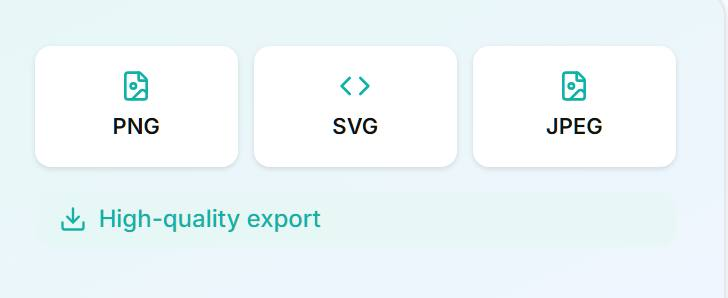
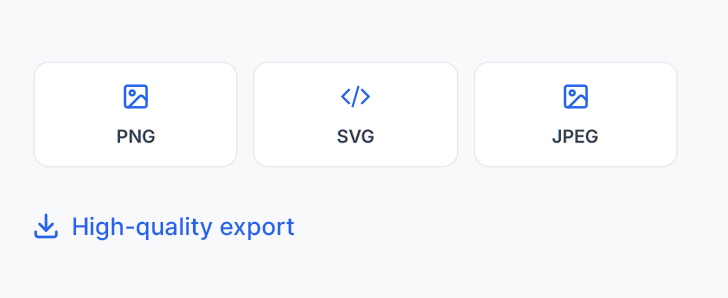
Shift steps and Why to blue, align plans, add the closing CTA
The PM's third home-page pass.

- Steps: number badges, the customize and download tiles and the
  high-quality export line all move from teal to blue, on the mockup's
  lighter panels. Step one's format tiles keep each type's own accent so
  they match the picker below.
- Why: badge and benefit icons go blue, and the dashboard still is the
  designer's new blue render. "Explore features" was already dropped in
  the last pass.
- Pricing: the trial card sat lower than the other two because only they
  reserved room for a Save pill. The cards now stretch to one height and
  the trial renders an empty pill slot, so the billing lines, feature
  lists and buttons share a baseline.
- Add the "Ready to create your QR code?" panel between the FAQ and the
  footer.

The designer's latest is synced in; their steps visuals are now flat
JPGs, but ours stay as live markup so they keep scaling and stay
readable to screen readers.

diff --git a/html_files/assets/css/default.css b/html_files/assets/css/default.css
@@ -210,7 +210,7 @@ svg path,svg shape,svg lineargradient { shape-rendering: geometricPrecision; }
 #mainSteps .btm .itm + .itm { margin-left: 2.4em; }
 #mainSteps .itm .tmb img { width: 100%; border-radius: 10px; }
 #mainSteps .itm .cap { display: flex; align-items: center; padding: 1.8em 1.2em 0 1.2em; }
-#mainSteps .itm .num { width: 2em; height: 2em; display: flex; align-items: center; justify-content: center; font-size: 1.3em; font-weight: 700; color: #ffffff; background: #11b1a7; }
+#mainSteps .itm .num { width: 2em; height: 2em; display: flex; align-items: center; justify-content: center; font-size: 1.3em; font-weight: 700; color: #ffffff; background: #2563eb; }
 #mainSteps .itm .ln1 { font-size: 1.9em; font-weight: 700; margin-left: 0.55em; }
 #mainSteps .itm .ln3 { font-size: 1.45em; color: #6b7280; line-height: 1.55em; padding: 0.85em 0.85em 0.55em 0.85em; }
 @media (max-width: 992px){
@@ -296,19 +296,19 @@ svg path,svg shape,svg lineargradient { shape-rendering: geometricPrecision; }
 #mainWhy { background: #ffffff;  }
 #mainWhy .row { display: flex; align-items: center; }
 #mainWhy .lft { flex: 0 0 415px; }
-#mainWhy .bdg { display: inline-flex; align-items: center; font-size: 12.5px; font-weight: 700; letter-spacing: 0.08em; text-transform: uppercase; color: #11b1a7; background: #e2f4f1; padding: 0.75em 1.4em; }
+#mainWhy .bdg { display: inline-flex; align-items: center; font-size: 12.5px; font-weight: 700; letter-spacing: 0.08em; text-transform: uppercase; color: #2563eb; background: #e9f0fb; padding: 0.75em 1.4em; }
 #mainWhy .bdg svg { width: 1.1em; height: 1.1em; margin-right: 0.55em; flex: 0 0 auto; }
 #mainWhy .ln1 { font-size: 40px; font-weight: 800; line-height: 1.15em; letter-spacing: -0.02em; max-width: 10.5em; margin-top: 0.6em; }
 #mainWhy .ln2 { font-size: 16.5px; color: #4b5563; line-height: 1.55em; max-width: 25em; padding: 0; margin-top: 1em; }
 #mainWhy .lst { margin-top: 2.4em; }
 #mainWhy .lst .itm { display: flex; align-items: center; background: #ffffff; border: 1px solid #e8eaef; border-radius: 12px; padding: 1em 1.2em; font-size: 10px;  }
 #mainWhy .lst .itm + .itm { margin-top: 1.3em; }
-#mainWhy .lst .ico { width: 6em; height: 6em; display: flex; align-items: center; justify-content: center; background: #e6f7f5; border-radius: 1.2em; flex: 0 0 auto; }
+#mainWhy .lst .ico { width: 6em; height: 6em; display: flex; align-items: center; justify-content: center; background: #e9f0fb; border-radius: 1.2em; flex: 0 0 auto; color: #2563eb;}
 #mainWhy .lst .ico svg { width: 2.4em; height:  2.4em; }
 #mainWhy .lst .txt { margin-left: 1.15em; }
 #mainWhy .lst .ln3 { font-size: 1.7em; font-weight: 700; }
 #mainWhy .lst .ln4 { font-size: 1.45em; color: #6b7280; line-height: 1.5em; max-width: 18.5em; padding: 0; margin-top: 0.35em; }
-#mainWhy .more { display: inline-flex; align-items: center; font-size: 16px; font-weight: 600; color: #11b1a7; border-bottom: 2px solid #11b1a7; padding-bottom: 0.4em; margin-top: 2.2em; }
+#mainWhy .more { display: inline-flex; align-items: center; font-size: 16px; font-weight: 600; color: #2563eb; border-bottom: 2px solid #2563eb; padding-bottom: 0.4em; margin-top: 2.2em; }
 #mainWhy .more:hover { color: #0d8a82; border-color: #0d8a82; }
 #mainWhy .more svg { width: 1.2em; height: 1.2em; margin-left: 0.55em; flex: 0 0 auto; }
 #mainWhy .rgt { flex: 1 1 auto; margin-left: 5.3em; }
@@ -415,17 +415,17 @@ svg path,svg shape,svg lineargradient { shape-rendering: geometricPrecision; }
 #mainFaq .btm .itm + .itm { margin-top: 1.8em; }
 #mainFaq .itm summary { display: flex; align-items: center; padding: 1.55em 2em; cursor: pointer; list-style: none; }
 #mainFaq .itm summary::-webkit-details-marker { display: none; }
-#mainFaq .itm summary .tgl { width: 1.76em; height: 1.76em; display: flex; align-items: center; justify-content: center; font-size: 1.7em; font-weight: 600; color: #2563eb; background: #e4ebfd; flex: 0 0 auto; margin-right: 1.4em; }
+#mainFaq .itm summary .tgl { width: 1.76em; height: 1.76em; display: flex; align-items: center; justify-content: center; font-size: 1.7em; font-weight: 600; color: #2563eb; background: #e9f0fb; flex: 0 0 auto; margin-right: 1.4em; }
 #mainFaq .itm summary .tgl:before { content: '+'; }
 #mainFaq .itm details[open] summary .tgl { color: #ffffff; background: #2563eb; }
 #mainFaq .itm details[open] summary .tgl:before { content: '−'; }
 #mainFaq .itm summary .ln1 { font-size: 1.8em; font-weight: 600; padding: 0; }
 #mainFaq .itm summary .ico { width: 1.8em; margin-left: auto; padding-left: 0; flex: 0 0 auto; }
 #mainFaq .itm details[open] .ico { transform: rotate(180deg); }
-#mainFaq .itm .txt { background: #f3f5f7; border-top: 1px solid #eef2f2; }
+#mainFaq .itm .txt { background: #f7faff; border-top: 1px solid #eef2f2; }
 #mainFaq .itm .txt .ln2 { font-size: 1.5em; color: #4b5563; line-height: 1.65em; padding: 1.5em 2em 1.6em 2em; max-width: 44em; }
 #mainFaq .btm .rgt { flex: 0 0 340px; margin-left: 5em; }
-#mainFaq .rgt .ico { width: 52px; height: 52px; display: flex; align-items: center; justify-content: center; background: #e4ebfd; }
+#mainFaq .rgt .ico { width: 52px; height: 52px; display: flex; align-items: center; justify-content: center; background: #e9f0fb; }
 #mainFaq .rgt .ico svg { width: 24px; height: 24px; }
 #mainFaq .rgt .ln3 { font-size: 29px; font-weight: 800; line-height: 1.2em; letter-spacing: -0.02em; margin-top: 1em; }
 #mainFaq .rgt .ln4 { font-size: 17px; color: #6b7280; line-height: 1.55em; max-width: 17em; padding: 0; margin-top: 0.9em; }
@@ -552,11 +552,25 @@ svg path,svg shape,svg lineargradient { shape-rendering: geometricPrecision; }
 #mainFooter .col a { font-size: 12.5px; }
 }
 
-
-
+/* Main Footer
+--------------------------------------------------------------*/
+#mainSlimFooter { background: #ffffff; padding: 4rem 0; font-size: 14.5px; text-align: center;  }
+#mainSlimFooter  ul { display: flex; justify-content: center; margin: 0 auto;  }
+#mainSlimFooter  ul li { padding: 0 0.6em; }  
+#mainSlimFooter  ul li a { color: #4b5563; display: inline-flex; align-items: center; white-space: nowrap; }
+#mainSlimFooter  ul li a:hover { color: #0e1311; }
+#mainSlimFooter  ul li a.footLive { font-weight: 600; }
+#mainSlimFooter  ul li a.footLive svg { max-width: 1.1428em; min-width: 1.1428em; max-height: 1.1428em; margin-left: 0.425em; }
+@media (max-width: 640px){
+#mainSlimFooter  ul { flex-wrap: wrap; }
+#mainSlimFooter  ul li:first-child { min-width: 100%; order: 10; margin-top: 0.6em;  }	
+}
+@media (max-width: 480px){
+#mainSlimFooter { font-size: 3vw; }
+}
 /* mainCreate
 --------------------------------------------------------------*/
-#mainCreate { background: #f5f7f9; padding: 4rem 0;  }
+#mainCreate { background: #f5f7f9; padding: 2rem 0;  }
 #mainCreate .crd { background: #ffffff; border: 1px solid #e8eaef; border-radius: 18px; box-shadow: 0 1px 2px 0 rgba(14,19,17,0.04); overflow: hidden; }
 #mainCreate .top { display: flex; align-items: center; padding: 1.7em 2.4em 1.8em 2.4em; border-bottom: 1px solid #eceef2; }
 #mainCreate .stp { font-size: 10px; display: flex; align-items: center; }

diff --git a/src/components/sections/Steps.tsx b/src/components/sections/Steps.tsx
@@ -1,10 +1,10 @@
 import {
   Globe,
+  Contact,
   FileText,
-  Video,
-  MessageCircle,
   Image as ImageIcon,
-  Wifi,
+  Video,
+  Smartphone,
   Palette,
   Sparkles,
   FileImage,
@@ -12,13 +12,14 @@ import {
   Download,
 } from "lucide-react";
 
+/** Step 1 tiles keep each format's own accent, matching the type picker. */
 const qrTypes = [
-  { icon: Globe, label: "Website" },
-  { icon: FileText, label: "PDF" },
-  { icon: Video, label: "Video" },
-  { icon: MessageCircle, label: "WhatsApp" },
-  { icon: ImageIcon, label: "Image" },
-  { icon: Wifi, label: "WiFi" },
+  { icon: Globe, label: "Website", color: "#3670f4" },
+  { icon: Contact, label: "vCard", color: "#5d6ded" },
+  { icon: FileText, label: "PDF", color: "#d52025" },
+  { icon: ImageIcon, label: "Image", color: "#3d994c" },
+  { icon: Video, label: "Video", color: "#db4243" },
+  { icon: Smartphone, label: "App Link", color: "#2aa7c5" },
 ];
 
 const swatches = [
@@ -37,9 +38,9 @@ const formats = [
 ];
 
 const cardClass =
-  "flex h-full flex-col overflow-hidden rounded-2xl border border-line bg-white shadow-soft";
+  "flex h-full flex-col overflow-hidden rounded-2xl border border-line bg-white p-5 shadow-soft";
 const visualClass =
-  "flex flex-1 flex-col justify-center bg-gradient-to-br from-brand-soft to-primary-soft/40 p-6";
+  "flex flex-1 flex-col justify-center rounded-xl bg-bg-alt/70 p-5";
 
 function StepCaption({
   step,
@@ -51,21 +52,21 @@ function StepCaption({
   body: string;
 }) {
   return (
-    <div className="p-6">
+    <div className="pt-5">
       <div className="flex items-center gap-2.5">
-        <span className="flex h-7 w-7 items-center justify-center rounded-full bg-brand text-sm font-bold text-white">
+        <span className="flex h-7 w-7 items-center justify-center rounded-full bg-primary text-sm font-bold text-white">
           {step}
         </span>
-        <h3 className="text-lg font-semibold">{title}</h3>
+        <h3 className="text-lg font-bold text-ink">{title}</h3>
       </div>
-      <p className="mt-2 text-sm text-muted">{body}</p>
+      <p className="mt-2.5 text-sm leading-relaxed text-muted">{body}</p>
     </div>
   );
 }
 
 export function Steps() {
   return (
-    <section className="bg-bg">
+    <section className="bg-white">
       <div className="container-page py-16 md:py-20">
         <h2 className="text-center text-3xl font-bold sm:text-4xl">
           Create a QR code in 3 simple steps
@@ -78,14 +79,14 @@ export function Steps() {
           {/* Step 1 — pick a type */}
           <div className={cardClass}>
             <div className={visualClass}>
-              <div className="grid grid-cols-3 gap-2">
-                {qrTypes.map(({ icon: Icon, label }) => (
+              <div className="grid grid-cols-3 gap-2.5">
+                {qrTypes.map(({ icon: Icon, label, color }) => (
                   <div
                     key={label}
-                    className="flex flex-col items-center gap-1 rounded-lg bg-white p-2 shadow-soft"
+                    className="flex flex-col items-center gap-1.5 rounded-lg border border-line/70 bg-white p-2.5"
                   >
-                    <Icon className="h-4 w-4 text-brand" />
-                    <span className="text-[10px] font-medium text-ink">
+                    <Icon className="h-4 w-4" style={{ color }} />
+                    <span className="text-[10px] font-semibold text-ink">
                       {label}
                     </span>
                   </div>
@@ -102,11 +103,11 @@ export function Steps() {
           {/* Step 2 — customize */}
           <div className={cardClass}>
             <div className={`${visualClass} items-center text-center`}>
-              <p className="flex items-center gap-1.5 text-xs font-medium text-ink">
-                <Palette className="h-3.5 w-3.5 text-brand" />
+              <p className="flex items-center gap-1.5 text-xs font-semibold text-ink">
+                <Palette className="h-3.5 w-3.5 text-primary" />
                 Colors
               </p>
-              <div className="mt-2 flex gap-2">
+              <div className="mt-2.5 flex gap-2">
                 {swatches.map((color) => (
                   <span
                     key={color}
@@ -115,13 +116,13 @@ export function Steps() {
                   />
                 ))}
               </div>
-              <div className="mt-3 flex gap-2">
-                <span className="inline-flex items-center gap-1 rounded-lg bg-white px-3 py-1.5 text-xs font-medium text-ink shadow-soft">
-                  <ImageIcon className="h-3.5 w-3.5 text-brand" />
+              <div className="mt-3.5 flex gap-2">
+                <span className="inline-flex items-center gap-1.5 rounded-lg border border-line/70 bg-white px-3 py-1.5 text-xs font-semibold text-ink">
+                  <ImageIcon className="h-3.5 w-3.5 text-primary" />
                   Add logo
                 </span>
-                <span className="inline-flex items-center gap-1 rounded-lg bg-white px-3 py-1.5 text-xs font-medium text-ink shadow-soft">
-                  <Sparkles className="h-3.5 w-3.5 text-brand" />
+                <span className="inline-flex items-center gap-1.5 rounded-lg border border-line/70 bg-white px-3 py-1.5 text-xs font-semibold text-ink">
+                  <Sparkles className="h-3.5 w-3.5 text-primary" />
                   Styles
                 </span>
               </div>
@@ -136,20 +137,20 @@ export function Steps() {
           {/* Step 3 — download */}
           <div className={cardClass}>
             <div className={visualClass}>
-              <div className="flex gap-2">
+              <div className="flex gap-2.5">
                 {formats.map(({ icon: Icon, label }) => (
                   <div
                     key={label}
-                    className="flex flex-1 flex-col items-center gap-1 rounded-lg bg-white p-3 shadow-soft"
+                    className="flex flex-1 flex-col items-center gap-1.5 rounded-lg border border-line/70 bg-white p-3"
                   >
-                    <Icon className="h-4 w-4 text-brand" />
+                    <Icon className="h-4 w-4 text-primary" />
                     <span className="text-[11px] font-semibold text-ink">
                       {label}
                     </span>
                   </div>
                 ))}
               </div>
-              <span className="mt-3 inline-flex items-center gap-1.5 rounded-lg bg-brand-soft px-3 py-1.5 text-xs font-medium text-brand">
+              <span className="mt-3.5 inline-flex items-center gap-1.5 text-xs font-semibold text-primary">
                 <Download className="h-3.5 w-3.5" />
                 High-quality export
               </span>

diff --git a/html_files/main.html b/html_files/main.html
@@ -211,7 +211,7 @@
 			<div class="row"> 
 				<!--lft-->
 				<div class="lft"> <span class="bdg ElmCirc">
-					<svg xmlns="http://www.w3.org/2000/svg" viewBox="0 0 24 24" fill="#11b1a7">
+					<svg xmlns="http://www.w3.org/2000/svg" viewBox="0 0 24 24" fill="currentColor">
 						<path d="M12 0Q13.6 10.4 24 12Q13.6 13.6 12 24Q10.4 13.6 0 12Q10.4 10.4 12 0Z"></path>
 					</svg>
 					Why BarcodesQR</span>
@@ -221,7 +221,7 @@
 					<ul class="lst">
 						<!--itm-->
 						<li class="itm"> <span class="ico">
-							<svg xmlns="http://www.w3.org/2000/svg" viewBox="0 0 24 24" fill="none" stroke="#11b1a7" stroke-width="2" stroke-linecap="round" stroke-linejoin="round">
+							<svg xmlns="http://www.w3.org/2000/svg" viewBox="0 0 24 24" fill="none" stroke="currentColor" stroke-width="2" stroke-linecap="round" stroke-linejoin="round">
 								<path d="M12 3H5a2 2 0 0 0-2 2v14a2 2 0 0 0 2 2h14a2 2 0 0 0 2-2v-7"></path>
 								<path d="M18.375 2.625a1 1 0 0 1 3 3l-9.013 9.014a2 2 0 0 1-.853.505l-2.873.84a.5.5 0 0 1-.62-.62l.84-2.873a2 2 0 0 1 .506-.852z"></path>
 							</svg>
@@ -234,7 +234,7 @@
 						<!--end itm--> 
 						<!--itm-->
 						<li class="itm"> <span class="ico">
-							<svg xmlns="http://www.w3.org/2000/svg" viewBox="0 0 24 24" fill="none" stroke="#11b1a7" stroke-width="2" stroke-linecap="round" stroke-linejoin="round">
+							<svg xmlns="http://www.w3.org/2000/svg" viewBox="0 0 24 24" fill="none" stroke="currentColor" stroke-width="2" stroke-linecap="round" stroke-linejoin="round">
 								<path d="M22 7 13.5 15.5 8.5 10.5 2 17"></path>
 								<path d="M16 7h6v6"></path>
 							</svg>
@@ -247,11 +247,11 @@
 						<!--end itm--> 
 						<!--itm-->
 						<li class="itm"> <span class="ico">
-							<svg xmlns="http://www.w3.org/2000/svg" viewBox="0 0 24 24" fill="none" stroke="#11b1a7" stroke-width="2" stroke-linecap="round" stroke-linejoin="round">
-								<circle cx="13.5" cy="6.5" r=".5" fill="#11b1a7"></circle>
-								<circle cx="17.5" cy="10.5" r=".5" fill="#11b1a7"></circle>
-								<circle cx="8.5" cy="7.5" r=".5" fill="#11b1a7"></circle>
-								<circle cx="6.5" cy="12.5" r=".5" fill="#11b1a7"></circle>
+							<svg xmlns="http://www.w3.org/2000/svg" viewBox="0 0 24 24" fill="none" stroke="currentColor" stroke-width="2" stroke-linecap="round" stroke-linejoin="round">
+								<circle cx="13.5" cy="6.5" r=".5" fill="currentColor"></circle>
+								<circle cx="17.5" cy="10.5" r=".5" fill="currentColor"></circle>
+								<circle cx="8.5" cy="7.5" r=".5" fill="currentColor"></circle>
+								<circle cx="6.5" cy="12.5" r=".5" fill="currentColor"></circle>
 								<path d="M12 2C6.5 2 2 6.5 2 12s4.5 10 10 10c.926 0 1.648-.746 1.648-1.688 0-.437-.18-.835-.437-1.125-.29-.289-.438-.652-.438-1.125a1.64 1.64 0 0 1 1.668-1.668h1.996c3.051 0 5.555-2.503 5.555-5.554C21.965 6.012 17.461 2 12 2z"></path>
 							</svg>
 							</span>
@@ -263,7 +263,7 @@
 						<!--end itm--> 
 						<!--itm-->
 						<li class="itm"> <span class="ico">
-							<svg xmlns="http://www.w3.org/2000/svg" viewBox="0 0 24 24" fill="none" stroke="#11b1a7" stroke-width="2" stroke-linecap="round" stroke-linejoin="round">
+							<svg xmlns="http://www.w3.org/2000/svg" viewBox="0 0 24 24" fill="none" stroke="currentColor" stroke-width="2" stroke-linecap="round" stroke-linejoin="round">
 								<path d="M20 13c0 5-3.5 7.5-7.66 8.95a1 1 0 0 1-.67-.01C7.5 20.5 4 18 4 13V6a1 1 0 0 1 1-1c2 0 4.5-1.2 6.24-2.72a1 1 0 0 1 1.52 0C14.51 3.81 17 5 19 5a1 1 0 0 1 1 1z"></path>
 								<rect x="9" y="10.5" width="6" height="4.5" rx="1"></rect>
 								<path d="M10.5 10.5V9a1.5 1.5 0 0 1 3 0v1.5"></path>
@@ -502,7 +502,7 @@
 					</svg>
 					</a> 
 					<!--<p class="ln3">
-						<svg xmlns="http://www.w3.org/2000/svg" viewBox="0 0 24 24" fill="none" stroke="#11b1a7" stroke-width="2" stroke-linecap="round" stroke-linejoin="round">
+						<svg xmlns="http://www.w3.org/2000/svg" viewBox="0 0 24 24" fill="none" stroke="currentColor" stroke-width="2" stroke-linecap="round" stroke-linejoin="round">
 							<path d="M20 13c0 5-3.5 7.5-7.66 8.95a1 1 0 0 1-.67-.01C7.5 20.5 4 18 4 13V6a1 1 0 0 1 1-1c2 0 4.5-1.2 6.24-2.72a1 1 0 0 1 1.52 0C14.51 3.81 17 5 19 5a1 1 0 0 1 1 1z"></path>
 							<path d="m9 12 2 2 4-4"></path>
 						</svg>

diff --git a/src/components/sections/ReadyCta.tsx b/src/components/sections/ReadyCta.tsx
@@ -1,0 +1,39 @@
+import Link from "next/link";
+import { ArrowRight } from "lucide-react";
+import { Button } from "@/components/ui/Button";
+
+export function ReadyCta() {
+  return (
+    <section className="bg-white">
+      <div className="container-page pb-16 md:pb-20">
+        <div className="flex flex-col items-center gap-8 rounded-2xl border border-line/80 bg-bg px-8 py-10 text-center md:flex-row md:gap-12 md:px-12 md:text-left">
+          {/* eslint-disable-next-line @next/next/no-img-element */}
+          <img
+            src="/ready-qr.svg"
+            alt=""
+            aria-hidden="true"
+            className="h-32 w-32 shrink-0 md:h-40 md:w-40"
+          />
+
+          <div className="md:flex-1">
+            <h2 className="max-w-sm text-2xl font-bold leading-tight tracking-tight text-ink sm:text-3xl">
+              Ready to create your QR code?
+            </h2>
+            <p className="mt-3 max-w-sm leading-relaxed text-muted">
+              Choose a QR code type and start creating in seconds.
+            </p>
+          </div>
+
+          <div className="shrink-0 md:border-l md:border-line md:pl-12">
+            <Link href="/create">
+              <Button size="lg" className="px-8">
+                Create QR Code
+                <ArrowRight className="h-4 w-4" />
+              </Button>
+            </Link>
+          </div>
+        </div>
+      </div>
+    </section>
+  );
+}

diff --git a/src/components/sections/WhyBarcodesQR.tsx b/src/components/sections/WhyBarcodesQR.tsx
@@ -37,7 +37,7 @@ export function WhyBarcodesQR() {
         <div className="grid items-center gap-12 lg:grid-cols-2">
           {/* Copy */}
           <div>
-            <span className="inline-flex items-center gap-2 rounded-full bg-brand-soft px-4 py-1.5 text-xs font-bold uppercase tracking-wider text-brand-darker">
+            <span className="inline-flex items-center gap-2 rounded-full bg-[#e9f0fb] px-4 py-1.5 text-xs font-bold uppercase tracking-wider text-primary">
               <Sparkle className="h-3.5 w-3.5" aria-hidden="true" />
               Why BarcodesQR
             </span>
@@ -58,7 +58,7 @@ export function WhyBarcodesQR() {
                   key={title}
                   className="flex items-start gap-4 rounded-2xl border border-line/70 bg-white p-4 transition-shadow duration-200 hover:shadow-soft"
                 >
-                  <span className="grid h-11 w-11 shrink-0 place-items-center rounded-xl bg-brand-soft text-brand-dark">
+                  <span className="grid h-11 w-11 shrink-0 place-items-center rounded-xl bg-[#e9f0fb] text-primary">
                     <Icon className="h-5 w-5" />
                   </span>
                   <div>

diff --git a/src/components/sections/Pricing.tsx b/src/components/sections/Pricing.tsx
@@ -74,7 +74,7 @@ export function Pricing() {
           customization.
         </p>
 
-        <div className="mx-auto mt-12 grid max-w-5xl items-start gap-6 md:grid-cols-3">
+        <div className="mx-auto mt-12 grid max-w-5xl gap-6 md:grid-cols-3">
           {plans.map((plan) => (
             <div
               key={plan.name}
@@ -100,9 +100,15 @@ export function Pricing() {
                 <span className="ml-1.5 text-sm text-muted">{plan.period}</span>
               </div>
 
-              {plan.save && (
+              {plan.save ? (
                 <span className="mt-4 inline-flex w-fit rounded-full bg-brand-soft px-3 py-1 text-sm font-semibold text-brand-dark">
                   {plan.save}
+                </span>
+              ) : (
+                /* Keeps the terms line and everything under it on the same
+                   baseline as the plans that do show a discount pill. */
+                <span aria-hidden="true" className="mt-4 inline-flex w-fit px-3 py-1 text-sm font-semibold opacity-0">
+                  &nbsp;
                 </span>
               )}
 

diff --git a/src/app/page.tsx b/src/app/page.tsx
@@ -8,6 +8,7 @@ import { WhyBarcodesQR } from "@/components/sections/WhyBarcodesQR";
 import { Reviews } from "@/components/sections/Reviews";
 import { Pricing } from "@/components/sections/Pricing";
 import { Faq } from "@/components/sections/Faq";
+import { ReadyCta } from "@/components/sections/ReadyCta";
 
 export default function Home() {
   return (
@@ -22,6 +23,7 @@ export default function Home() {
         <Reviews />
         <Pricing />
         <Faq />
+        <ReadyCta />
       </main>
       <Footer />
     </>
